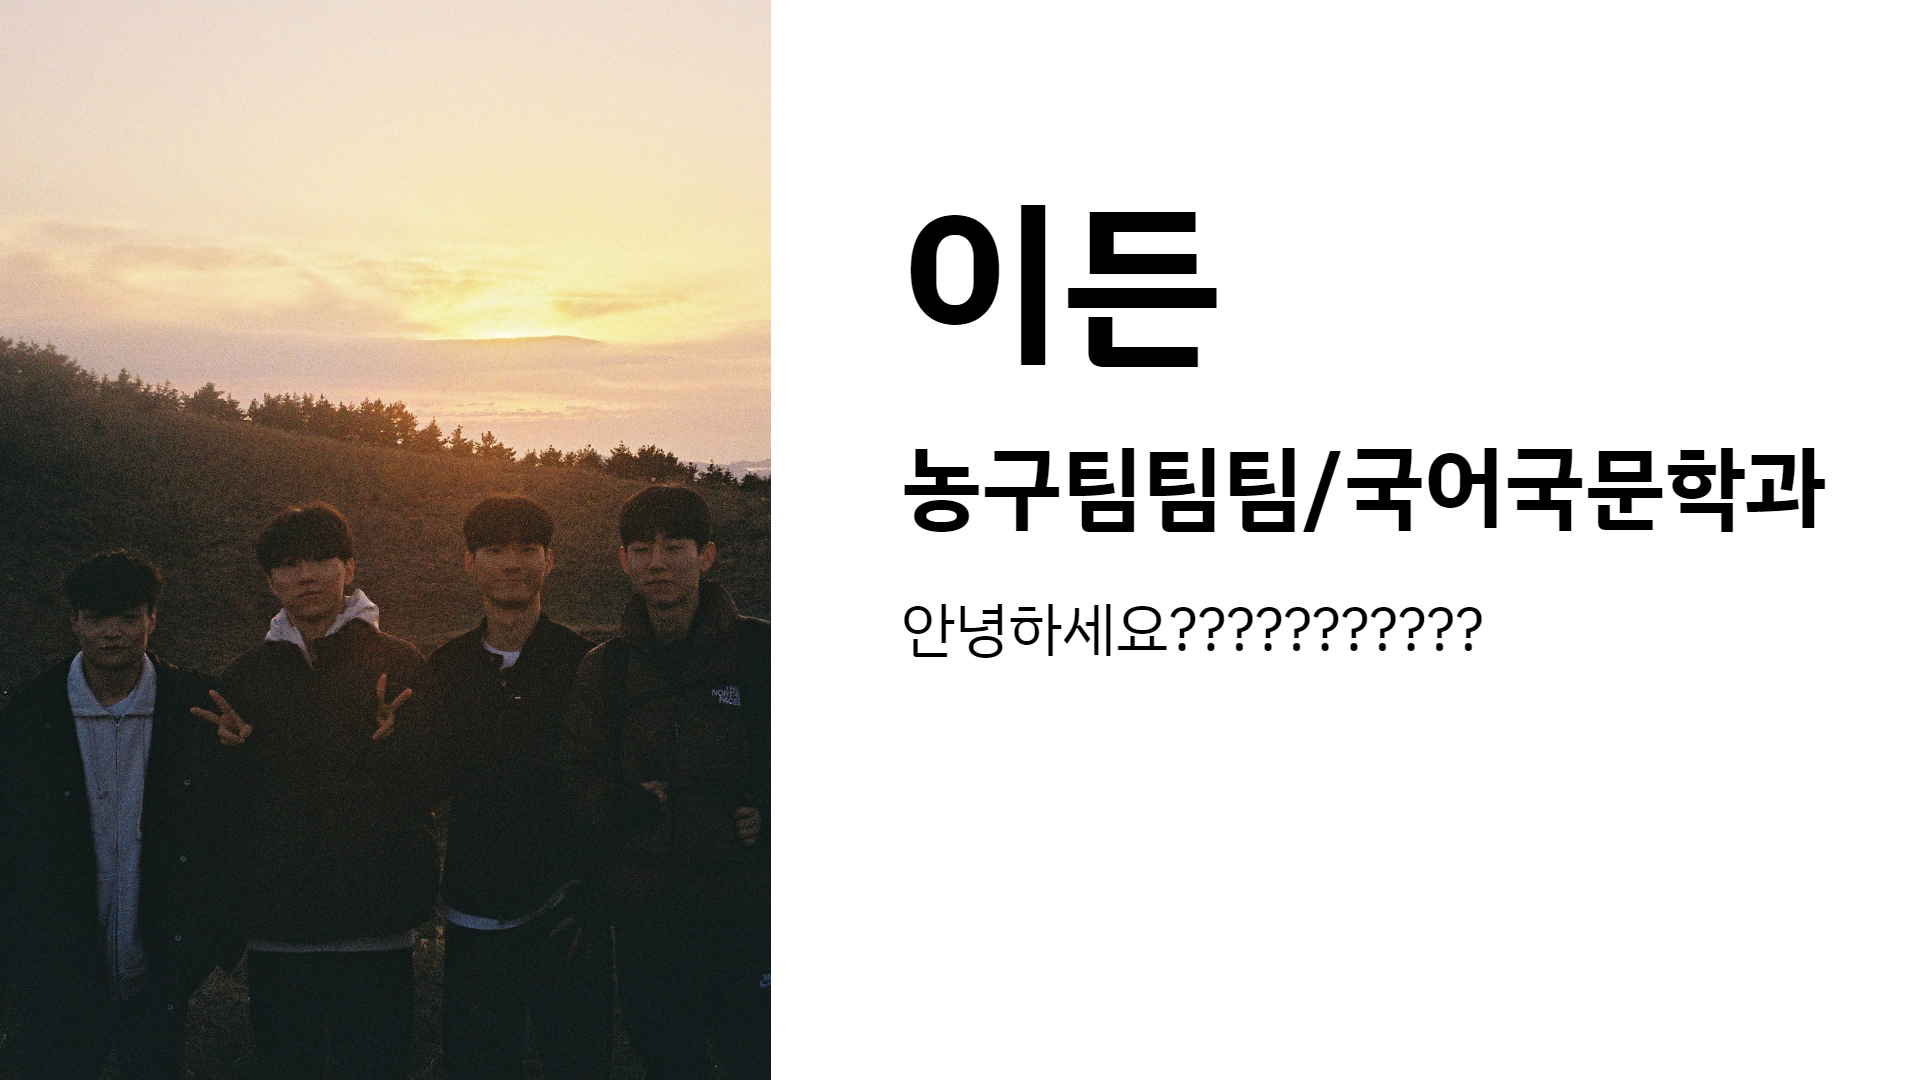
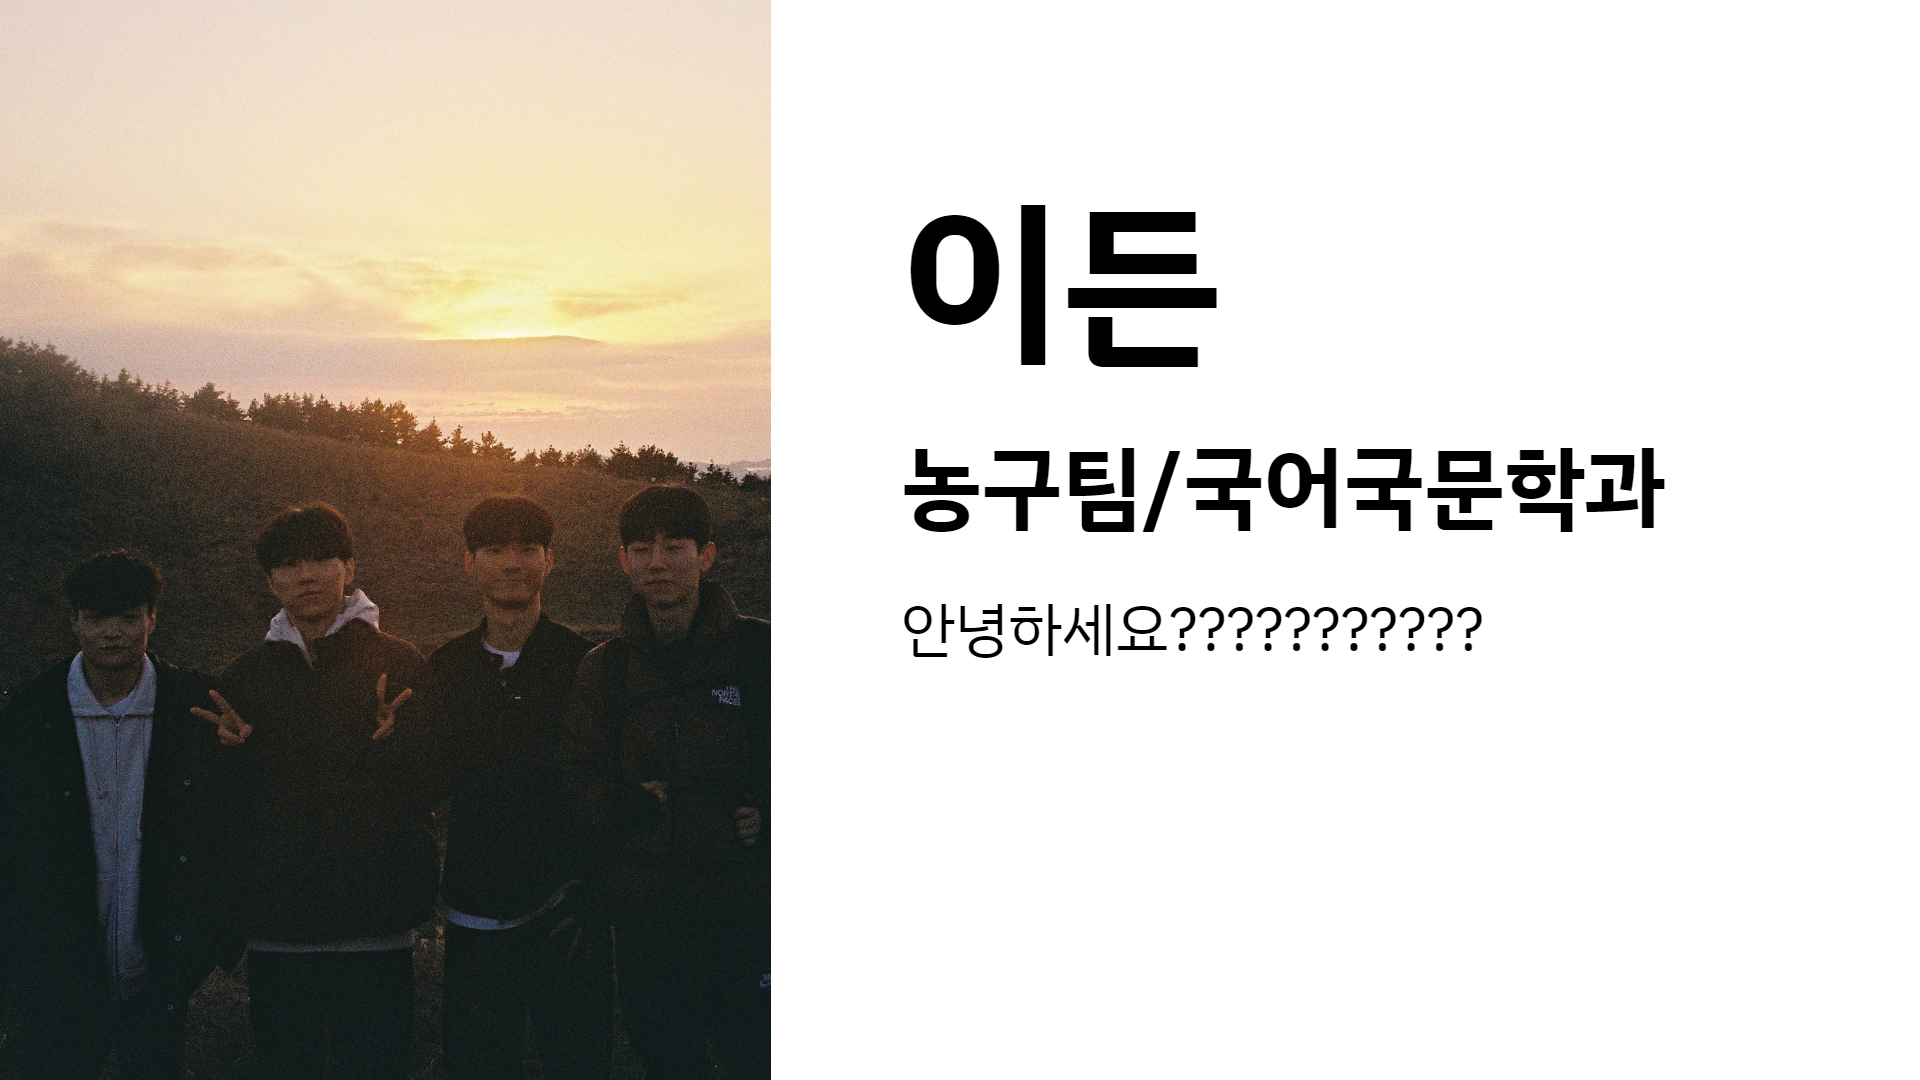
최종 수정했소

Changed region(s): [[0.5938, 0.3972, 0.9688, 0.4889]]

diff --git a/main.py b/main.py
@@ -119,7 +119,7 @@ def image_to_base64(image_path):
         return base64.b64encode(img_file.read()).decode('utf-8')
 #과제--------------------------------------------------------------------------------
 # 과제-1:팀 이름 입력(농구/야구/축구/E-Sports 중 적어주세요)
-team = "농구팀팀"
+team = "농구"
 
 # 과제-2:본인을 나타내는 사진을 !반드시! 동일 폴더 안에 넣고 아래에 옳은 파일명을 입력해주세요
 photo_path = 'image.jpg'
@@ -128,8 +128,8 @@ photo_path = 'image.jpg'
 introduction = "안녕하세요???????????"
 # 이후 실행하고
 # 터미널에 입력할 User inputs(이름, 전공)
-name = input("Enter your name: 이든")
-student_major = input("Enter your major: 국어국문학과")
+name = input("Enter your name:")
+student_major = input("Enter your major:")
 
 # Generate and save profile as an image
 generate_profile(name, student_major, team, photo_path, introduction, output_image_path=name+"_profile.png")
